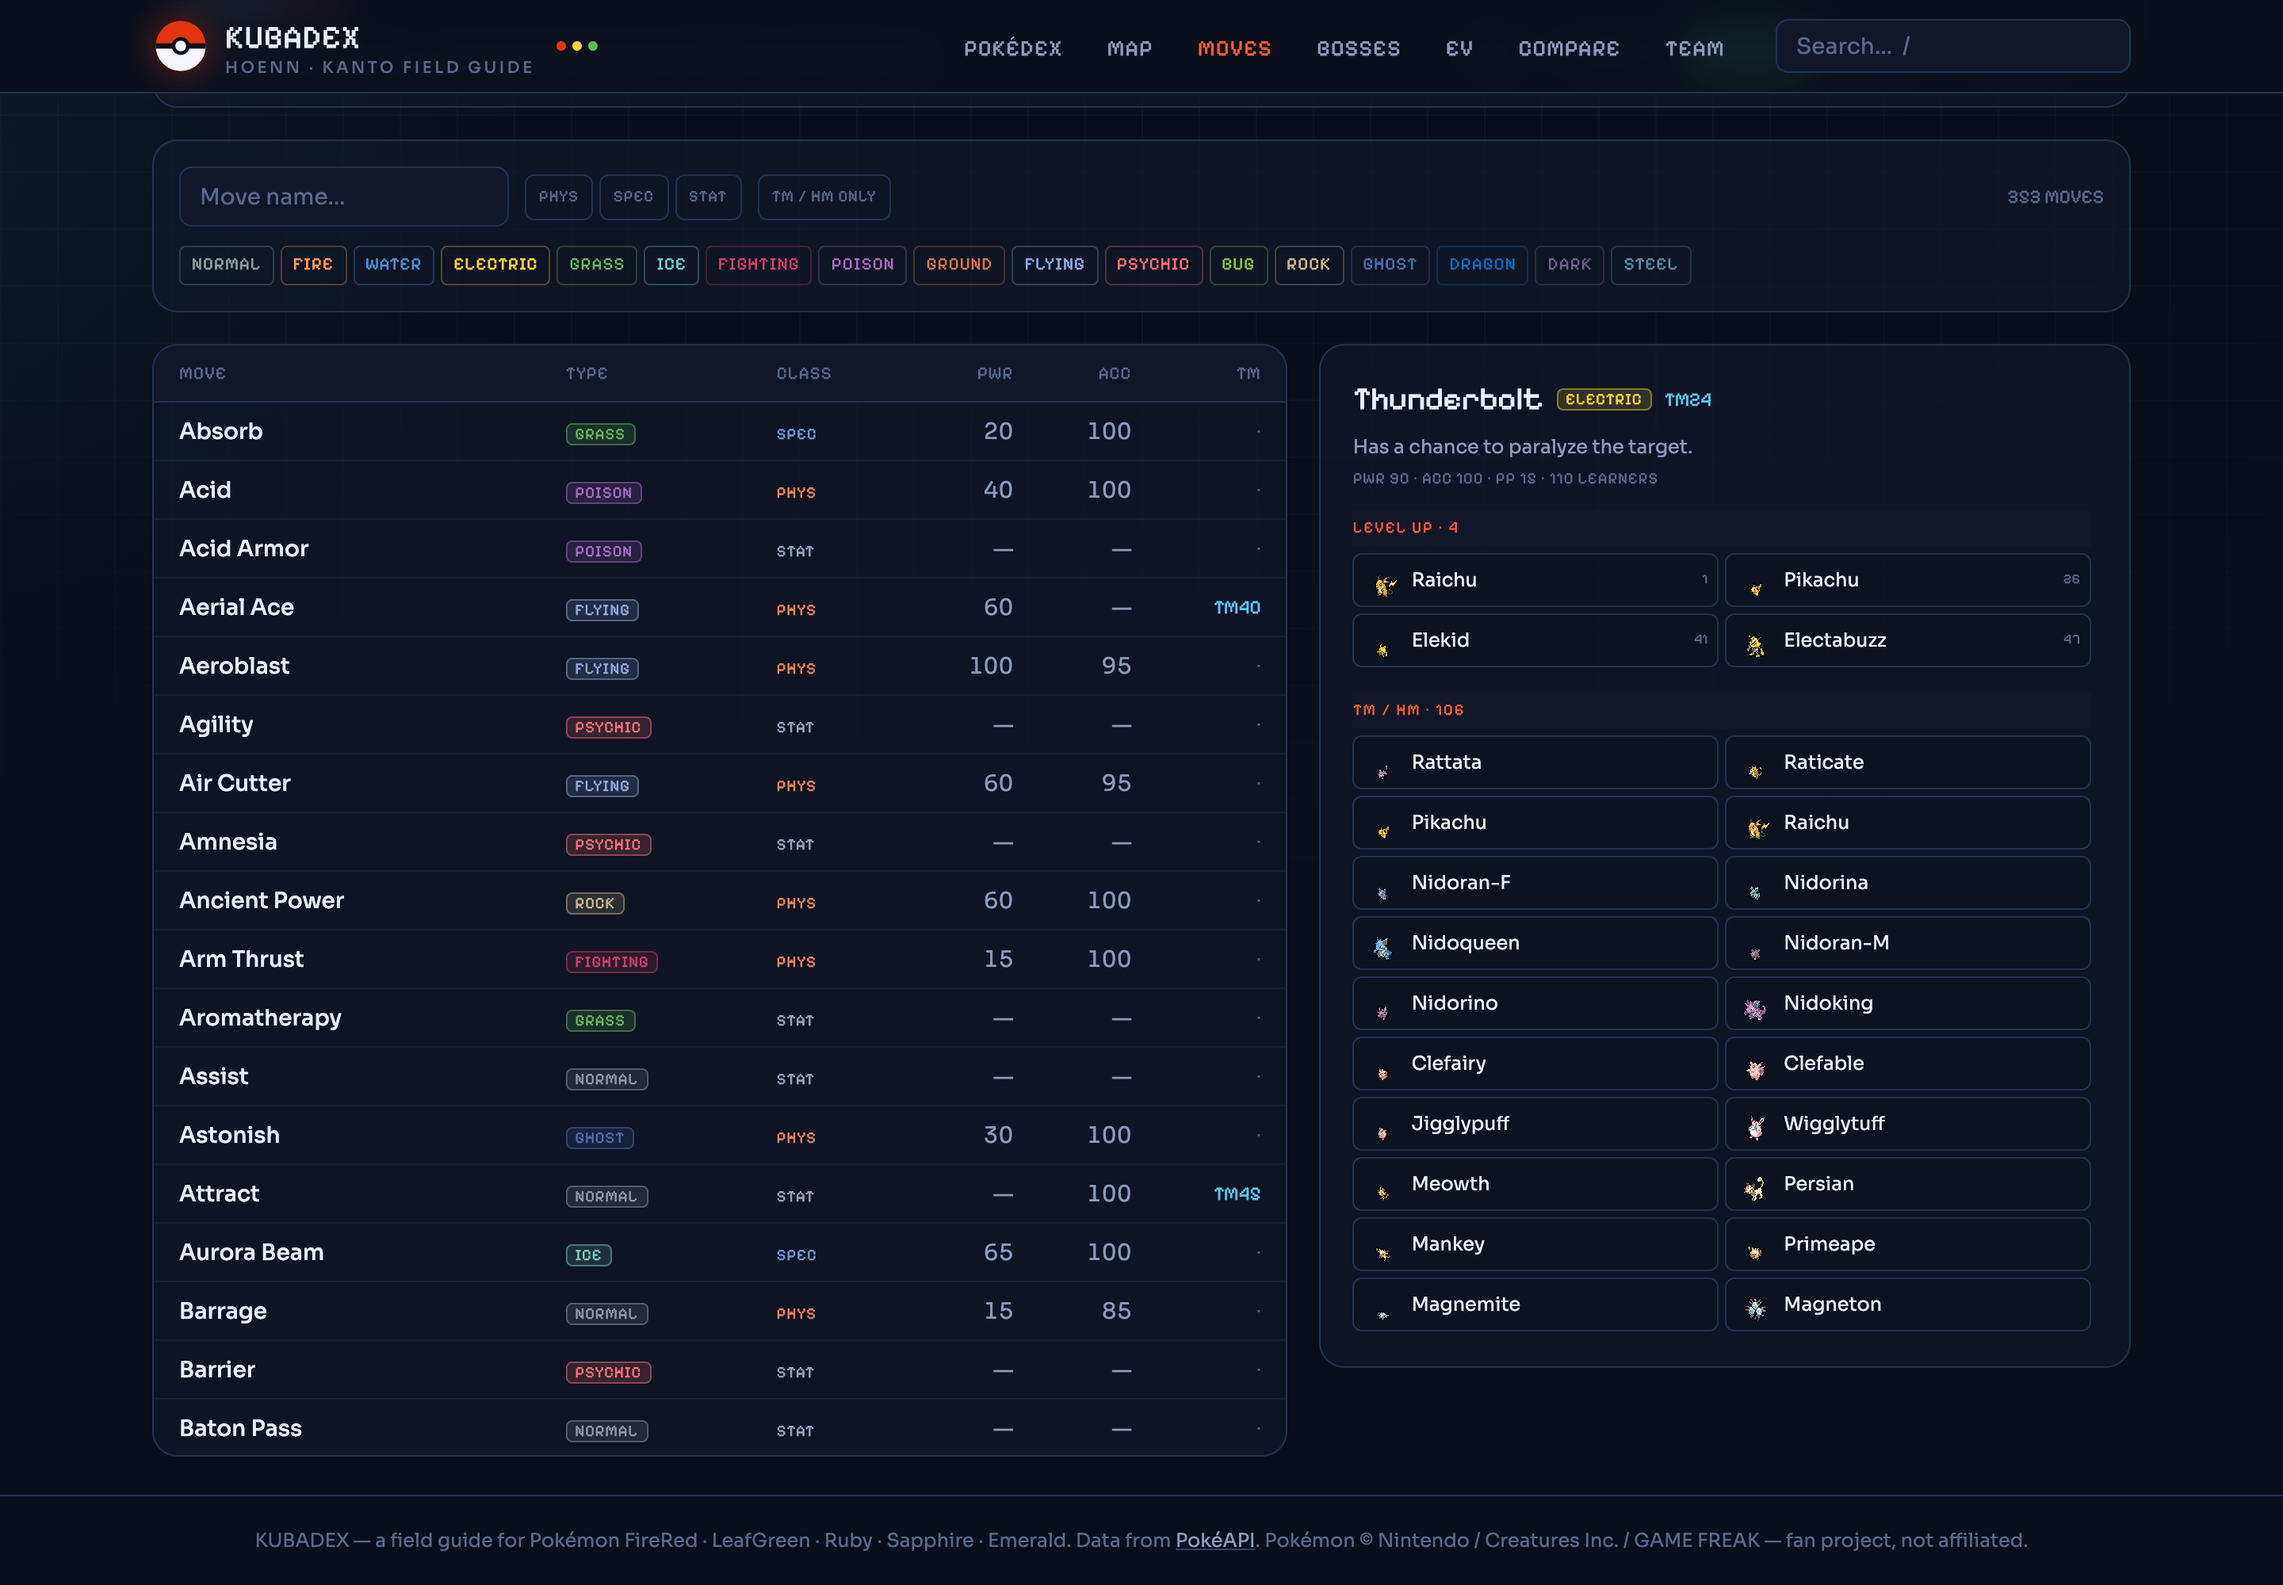
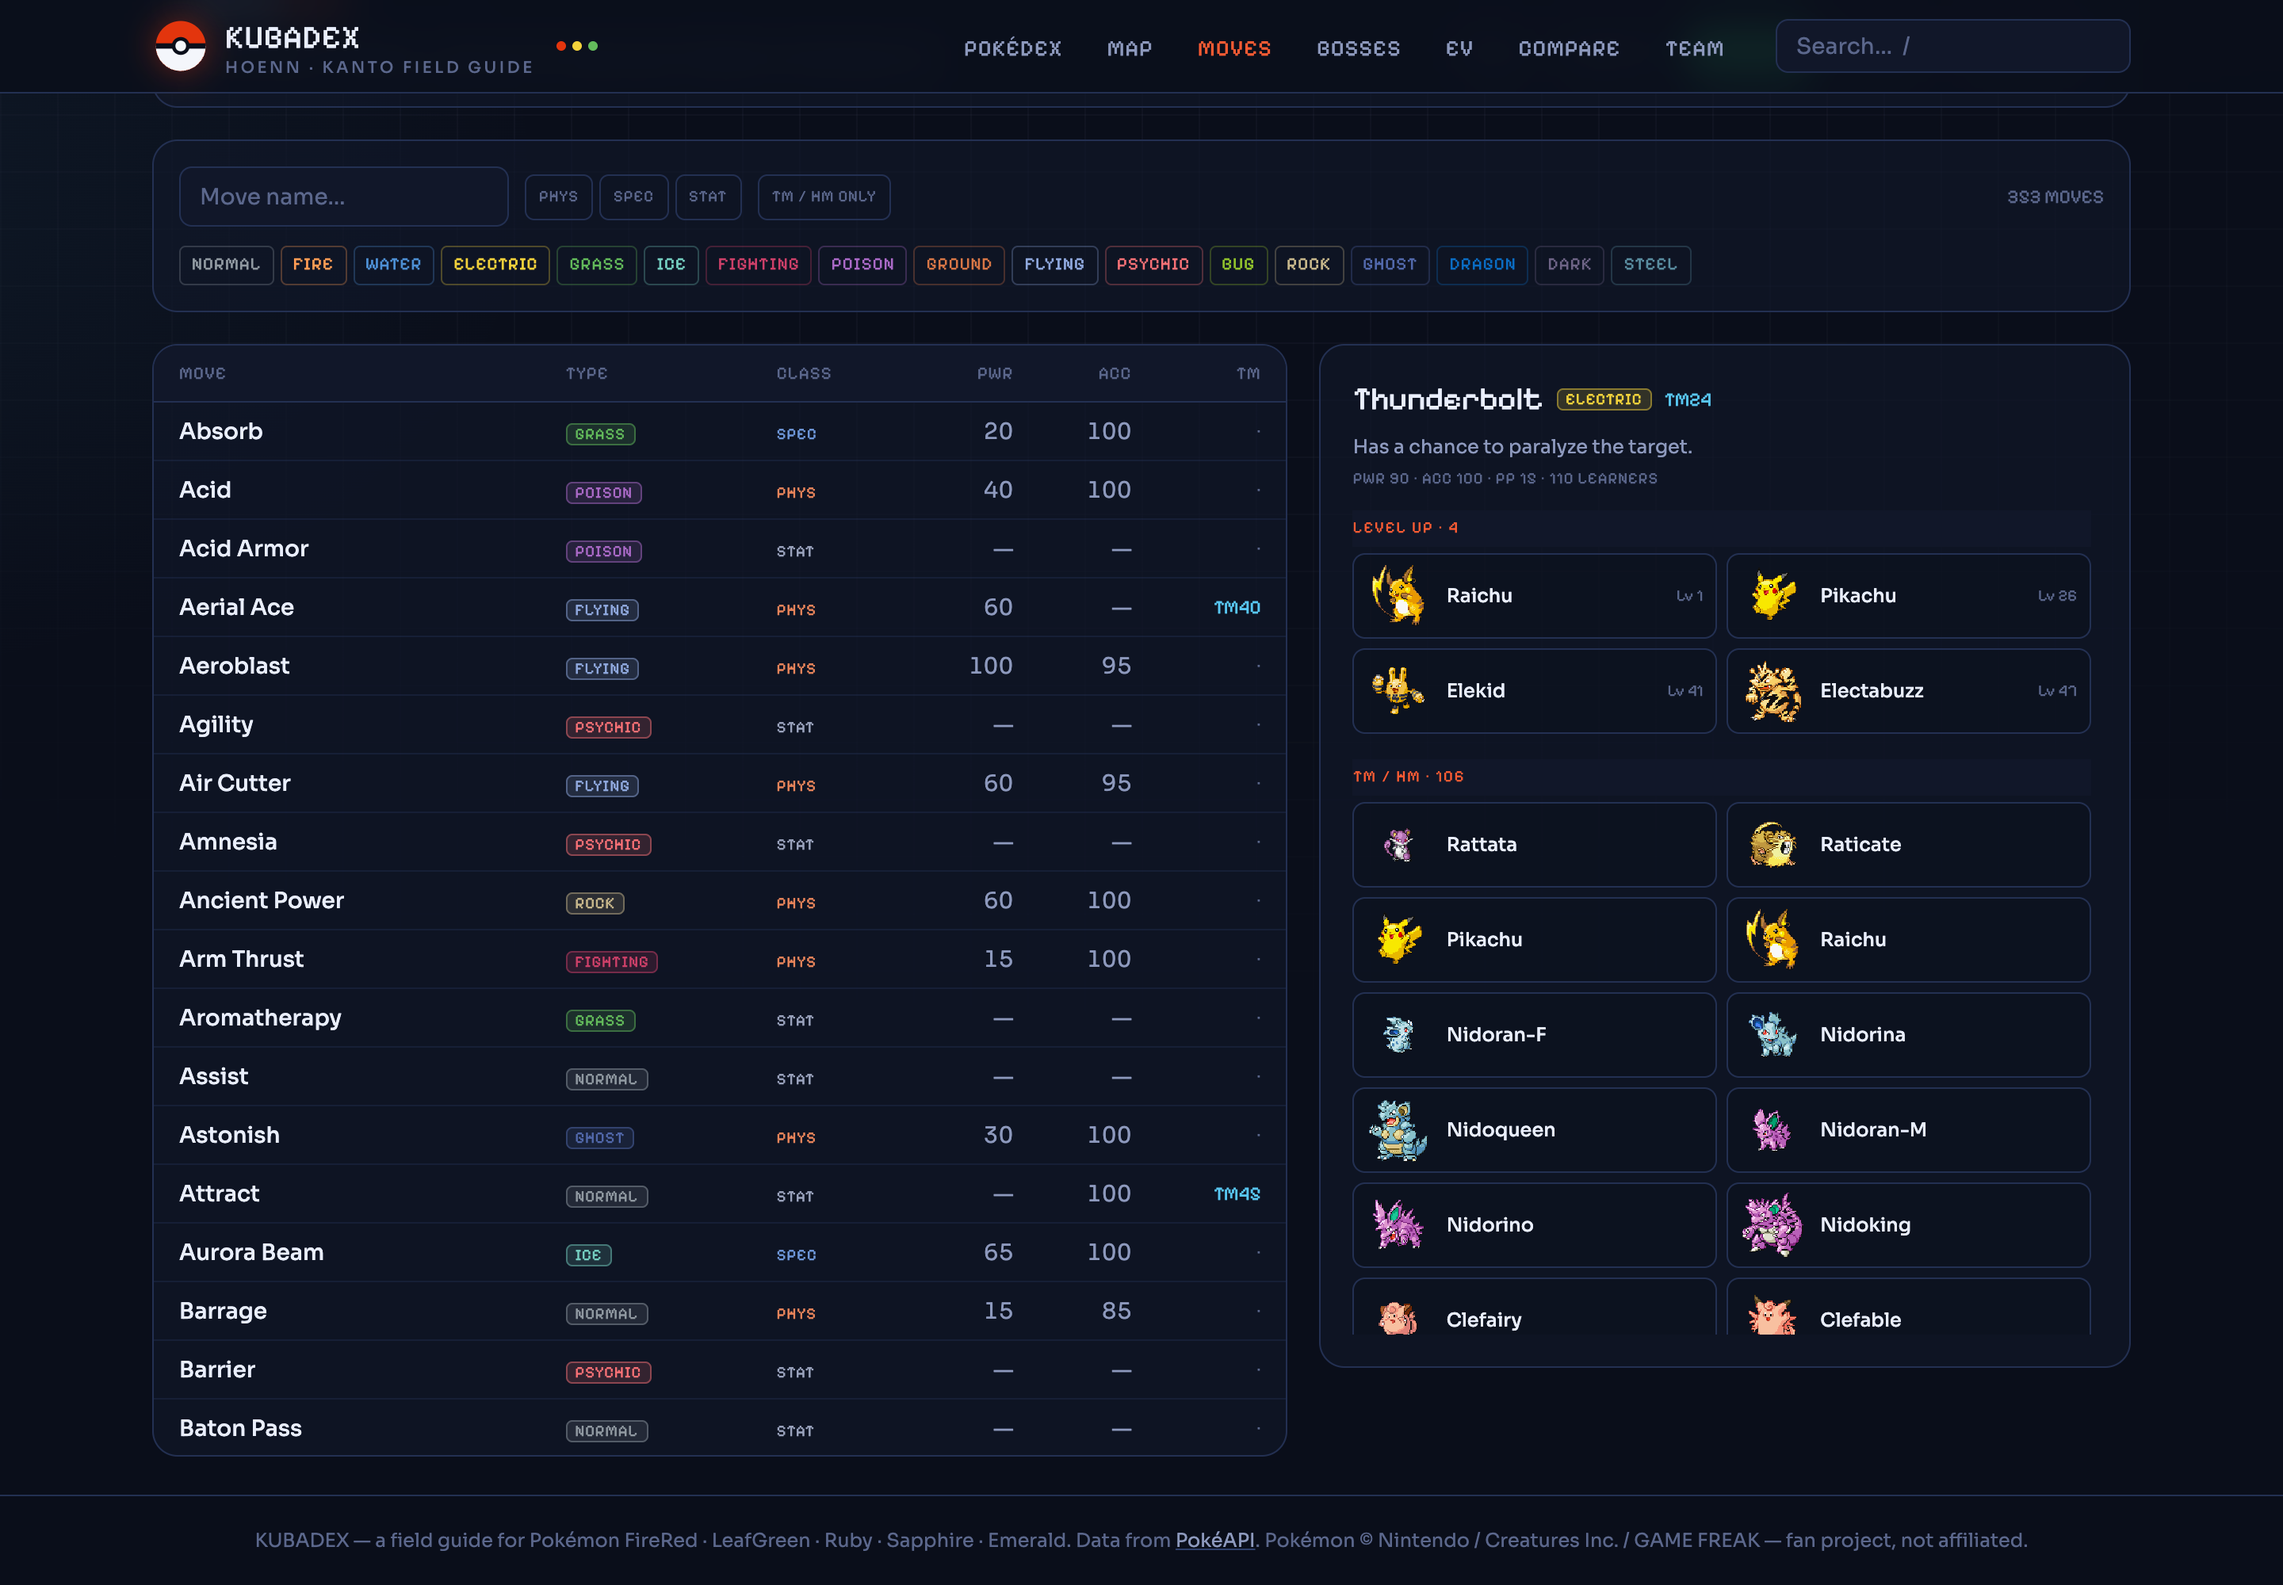
Enlarge pokemon sprites and matchup multipliers across views
- Movedex learners, Map Explorer encounters and Team coverage now use
  full-size gen3 sprites instead of tiny menu icons
- Compare and Team matchup multipliers bumped to 18px
- Show multipliers as 0.5 / 0.25 instead of the tiny precomposed glyphs

Changed region(s): [[0.5938, 0.341, 0.9062, 0.837], [0.875, 0.372, 0.9062, 0.403]]

diff --git a/src/views/TeamView.vue b/src/views/TeamView.vue
@@ -141,21 +141,21 @@ const availability = computed(() =>
             <tbody>
               <tr v-for="c in coverage" :key="c.type" class="border-b border-line/40">
                 <td class="py-1.5 pr-3"><TypeBadge :type="c.type" size="sm" /></td>
-                <td class="py-1.5 pr-3">
+                <td class="py-2 pr-3">
                   <span v-if="!c.weak.length" class="text-dim">—</span>
-                  <span v-else class="inline-flex flex-wrap items-center gap-2">
+                  <span v-else class="inline-flex flex-wrap items-center gap-2.5">
                     <span v-for="w in c.weak" :key="w.m.id" class="inline-flex items-center gap-1">
-                      <img :src="spriteUrl(w.m.id, 'icons')" class="pixelated size-6" :title="w.m.label" alt="" />
-                      <span class="font-display text-[10px] text-[#e0564b]">×{{ fmtMult(w.mult) }}</span>
+                      <img :src="spriteUrl(w.m.id, 'gen3')" class="pixelated size-10 object-contain" :title="w.m.label" alt="" />
+                      <span class="font-display text-lg text-[#e0564b]">×{{ fmtMult(w.mult) }}</span>
                     </span>
                   </span>
                 </td>
-                <td class="py-1.5">
+                <td class="py-2">
                   <span v-if="!c.resist.length" class="text-dim">—</span>
-                  <span v-else class="inline-flex flex-wrap items-center gap-2">
+                  <span v-else class="inline-flex flex-wrap items-center gap-2.5">
                     <span v-for="r in c.resist" :key="r.m.id" class="inline-flex items-center gap-1">
-                      <img :src="spriteUrl(r.m.id, 'icons')" class="pixelated size-6" :title="r.m.label" alt="" />
-                      <span class="font-display text-[10px] text-[#7ac74c]">×{{ fmtMult(r.mult) }}</span>
+                      <img :src="spriteUrl(r.m.id, 'gen3')" class="pixelated size-10 object-contain" :title="r.m.label" alt="" />
+                      <span class="font-display text-lg text-[#7ac74c]">×{{ fmtMult(r.mult) }}</span>
                     </span>
                   </span>
                 </td>
@@ -171,15 +171,15 @@ const availability = computed(() =>
         <p class="mt-1 text-xs text-dim">Whether each member appears in that game's dex or wild areas (trades not counted).</p>
         <div class="mt-3 space-y-2">
           <div v-for="a in availability" :key="a.version" class="flex items-center gap-3">
-            <span class="w-24 shrink-0 font-display text-xs tracking-wider" :style="{ color: GAMES[a.version].color }">{{ GAMES[a.version].label }}</span>
+            <span class="w-24 shrink-0 font-display text-sm tracking-wider" :style="{ color: GAMES[a.version].color }">{{ GAMES[a.version].label }}</span>
             <div class="flex gap-2">
               <span
                 v-for="x in a.members" :key="x.m.id"
-                class="grid size-9 place-items-center rounded-lg border"
+                class="grid size-13 place-items-center rounded-lg border"
                 :class="x.ok ? 'border-line bg-panel2' : 'border-line/50 opacity-30 grayscale'"
                 :title="`${x.m.label} — ${x.ok ? 'available' : 'not obtainable here (trade required)'}`"
               >
-                <img :src="spriteUrl(x.m.id, 'icons')" class="pixelated size-7" alt="" />
+                <img :src="spriteUrl(x.m.id, 'gen3')" class="pixelated size-11 object-contain" alt="" />
               </span>
             </div>
           </div>

diff --git a/src/views/MovedexView.vue b/src/views/MovedexView.vue
@@ -181,15 +181,15 @@ const panel = computed(() => {
           <div class="scrollbar-thin mt-3 max-h-[52vh] space-y-4 overflow-y-auto pr-1">
             <div v-for="g in panel.groups" :key="g.id">
               <p class="sticky top-0 bg-panel py-1 font-display text-[10px] tracking-widest text-dexglow">{{ g.label.toUpperCase() }} · {{ g.mons.length }}</p>
-              <div class="mt-1 grid grid-cols-2 gap-1">
+              <div class="mt-1 grid grid-cols-2 gap-1.5">
                 <RouterLink
                   v-for="p in g.mons" :key="p.id + '-' + g.id"
                   :to="`/pokemon/${p.id}`"
-                  class="flex items-center gap-1.5 rounded-md border border-line bg-bg/40 px-1.5 py-1 transition-colors hover:border-line2 hover:bg-panel2"
+                  class="group/mon flex items-center gap-2 rounded-lg border border-line bg-bg/40 py-1 pl-1.5 pr-2 transition-colors hover:border-line2 hover:bg-panel2"
                 >
-                  <img :src="spriteUrl(p.id, 'icons')" class="pixelated size-6 shrink-0" alt="" />
-                  <span class="truncate text-xs text-ink">{{ p.label }}</span>
-                  <span v-if="g.id === 'level-up'" class="ml-auto shrink-0 font-display text-[9px] text-dim">{{ p.level }}</span>
+                  <img :src="spriteUrl(p.id, 'gen3')" class="pixelated size-11 shrink-0 object-contain transition-transform duration-200 group-hover/mon:scale-110" alt="" />
+                  <span class="min-w-0 flex-1 truncate text-xs font-medium text-ink">{{ p.label }}</span>
+                  <span v-if="g.id === 'level-up'" class="shrink-0 font-display text-[10px] text-dim">Lv {{ p.level }}</span>
                 </RouterLink>
               </div>
             </div>

diff --git a/src/views/CompareView.vue b/src/views/CompareView.vue
@@ -141,15 +141,16 @@ const statMax = (s) => Math.max(...mons.value.map((m) => m.stats[s]))
             <thead>
               <tr class="border-b border-line text-left">
                 <th class="py-2 pr-3 font-display text-[11px] tracking-wider text-dim">VS</th>
-                <th v-for="(m, i) in mons" :key="m.id" class="py-2 pr-3 font-display text-xs" :style="{ color: COLORS[i] }">{{ m.label.toUpperCase() }}</th>
+                <th v-for="(m, i) in mons" :key="m.id" class="py-2 pr-3 font-display text-sm" :style="{ color: COLORS[i] }">{{ m.label.toUpperCase() }}</th>
               </tr>
             </thead>
             <tbody>
               <tr v-for="t in TYPES" :key="t" class="border-b border-line/40">
-                <td class="py-1.5 pr-3"><TypeBadge :type="t" size="sm" /></td>
-                <td v-for="(m, i) in mons" :key="m.id" class="py-1.5 pr-3 font-display text-xs tabular-nums">
+                <td class="py-2 pr-3"><TypeBadge :type="t" size="sm" /></td>
+                <td v-for="(m, i) in mons" :key="m.id" class="py-2 pr-3 font-display tabular-nums">
                   <span
-                    :class="profiles[i][t] > 1 ? 'text-[#e0564b]' : profiles[i][t] === 0 ? 'text-lens' : profiles[i][t] < 1 ? 'text-[#7ac74c]' : 'text-dim'"
+                    class="inline-block rounded px-1.5 py-0.5 text-lg"
+                    :class="profiles[i][t] > 1 ? 'bg-[#e0564b]/12 text-[#e0564b]' : profiles[i][t] === 0 ? 'bg-lens/12 text-lens' : profiles[i][t] < 1 ? 'bg-[#7ac74c]/12 text-[#7ac74c]' : 'text-dim'"
                   >×{{ fmtMult(profiles[i][t]) }}</span>
                 </td>
               </tr>

diff --git a/src/views/MapExplorerView.vue b/src/views/MapExplorerView.vue
@@ -128,9 +128,9 @@ function pickOffMap(o) {
                 <li v-for="mon in g.mons" :key="mon.id">
                   <RouterLink
                     :to="`/pokemon/${mon.id}`"
-                    class="flex items-center gap-2.5 rounded-lg border border-line bg-bg/40 px-2.5 py-1.5 transition-colors hover:border-line2 hover:bg-panel2"
+                    class="group/mon flex items-center gap-2.5 rounded-lg border border-line bg-bg/40 px-2 py-1.5 transition-colors hover:border-line2 hover:bg-panel2"
                   >
-                    <img :src="spriteUrl(mon.id, 'icons')" class="pixelated size-8 shrink-0 object-contain" alt="" />
+                    <img :src="spriteUrl(mon.id, 'gen3')" class="pixelated size-12 shrink-0 object-contain transition-transform duration-200 group-hover/mon:scale-110" alt="" />
                     <div class="min-w-0">
                       <p class="text-sm font-medium text-ink">
                         <span class="font-display text-[10px] text-dim">{{ dexNo(mon.id) }}</span>

diff --git a/src/lib/utils.js b/src/lib/utils.js
@@ -16,4 +16,5 @@ export function statColor(v) {
   return '#4dd3c0'
 }
 
-export const fmtMult = (m) => (m === 0.5 ? '½' : m === 0.25 ? '¼' : String(m))
+// full digits, not ½/¼ precomposed glyphs — those render tiny at any font size
+export const fmtMult = (m) => (m === 0.5 ? '0.5' : m === 0.25 ? '0.25' : String(m))
